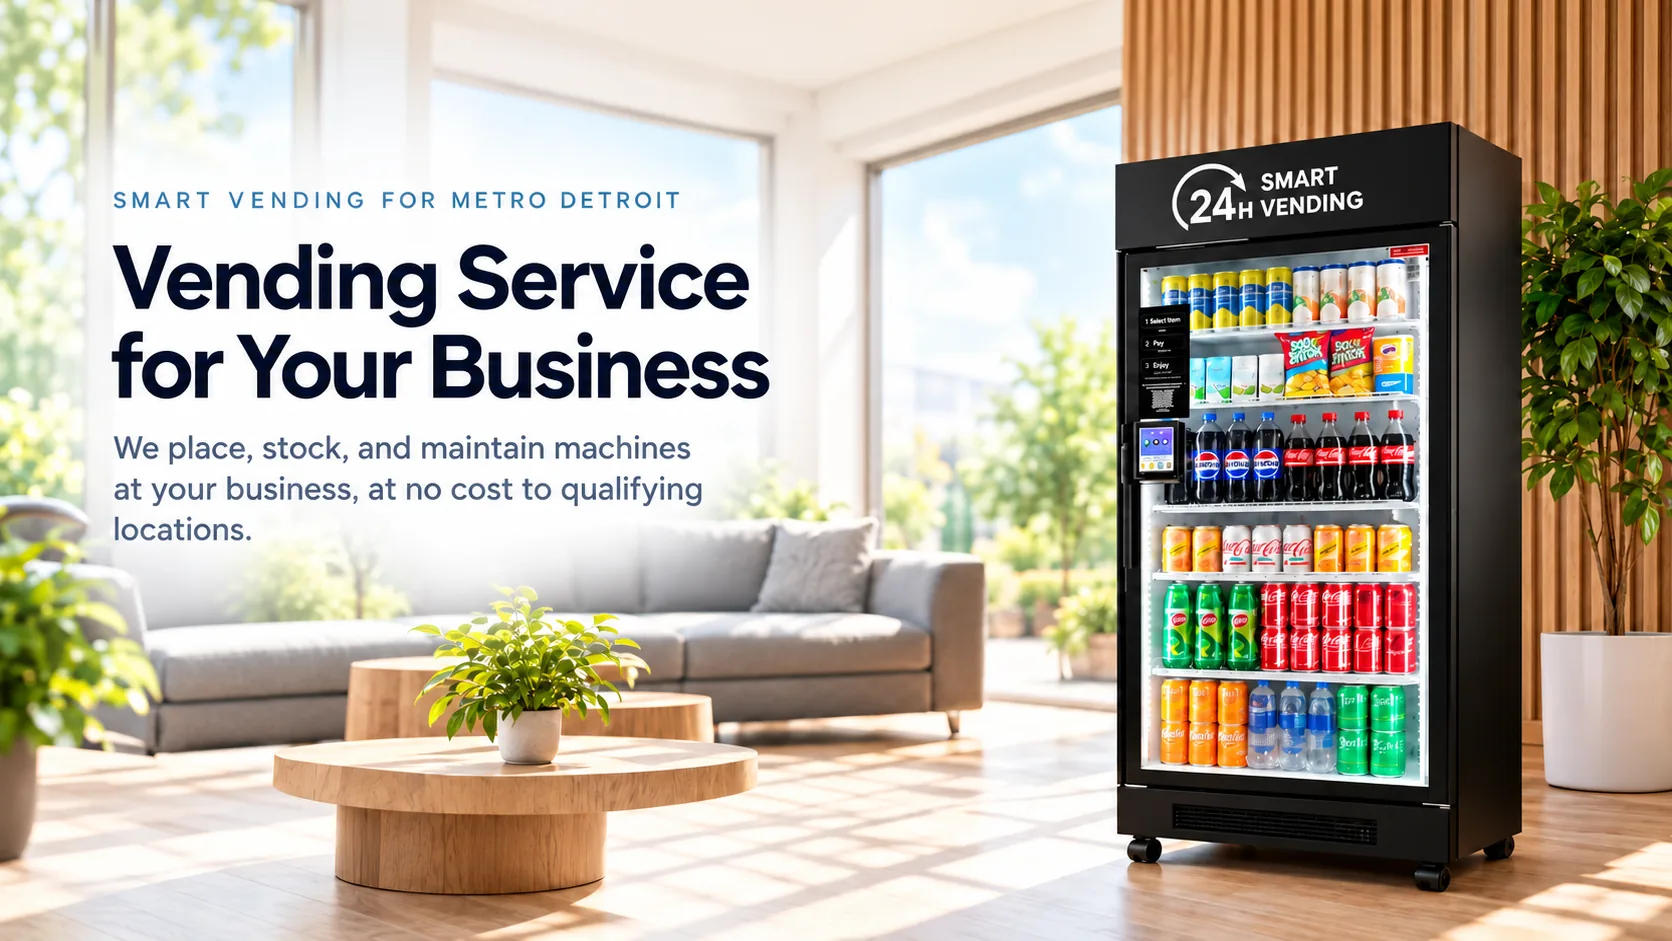
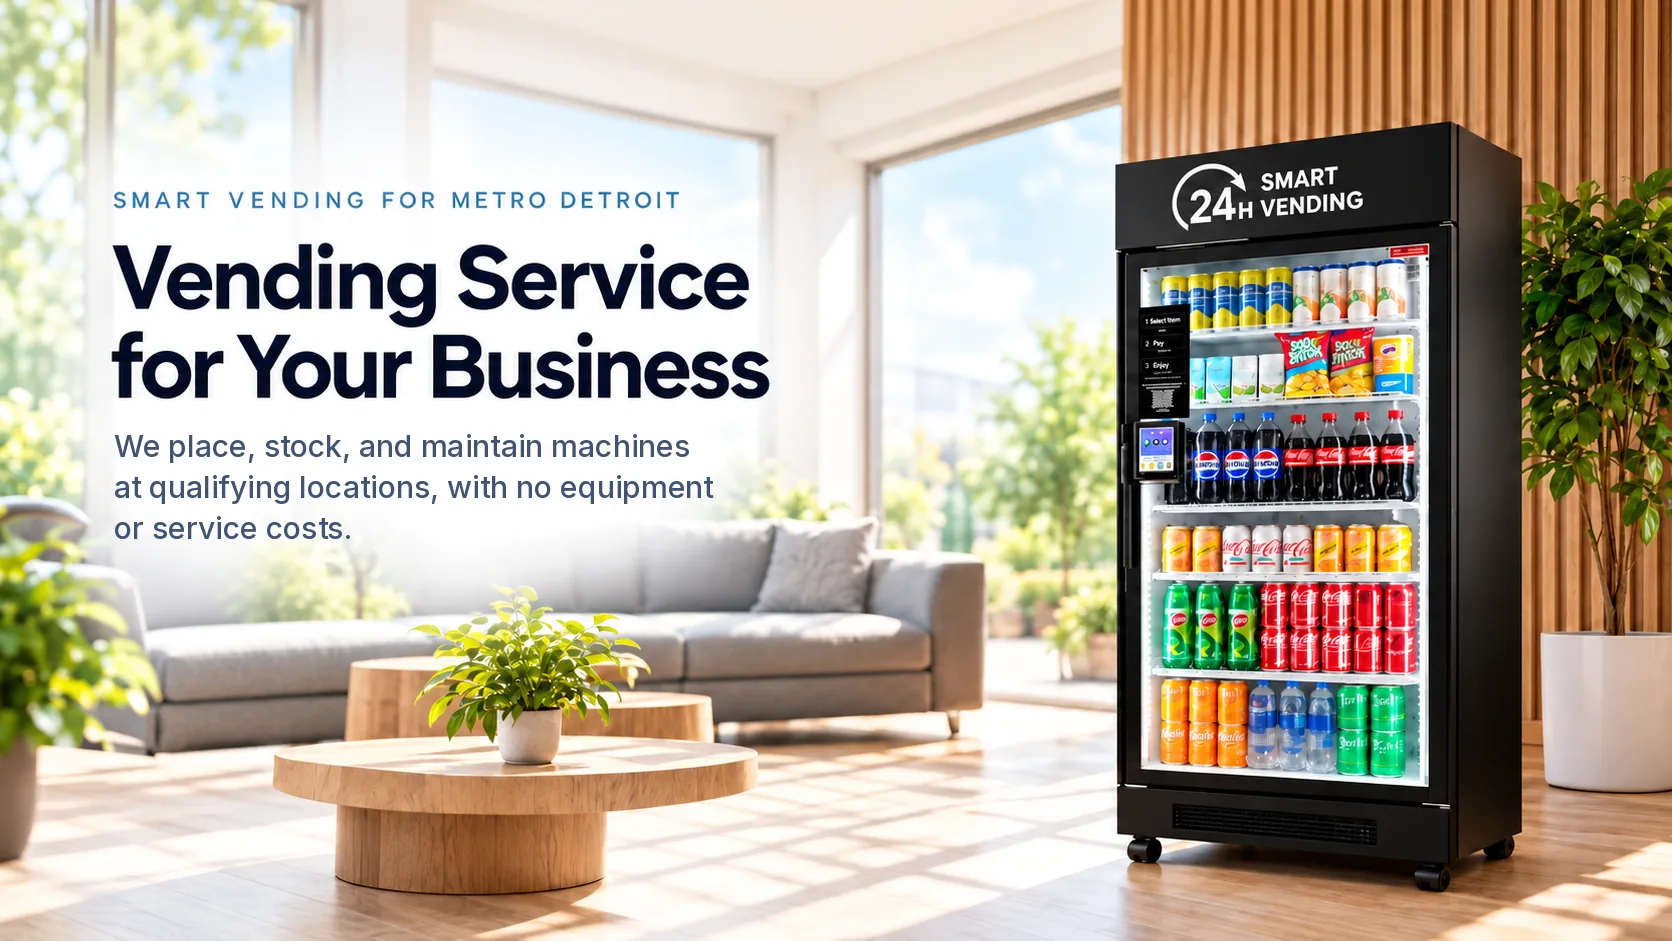
Hero images: replace 'at no cost' wording
Edited the text baked into the desktop and phone hero images (PNG + WebP):
'...at your business, at no cost to qualifying locations.' ->
'...at qualifying locations, with no equipment or service costs.'
Old text removed by inpainting; new text set in Inter Medium to match size,
color and baselines. Image URLs versioned so browsers load the new files.

Claude-Session: https://claude.ai/code/session_01QEYBfoM3rN5WDww9Dqk6D8

Changed region(s): [[0.0622, 0.4623, 0.4354, 0.5855]]

diff --git a/index.html b/index.html
@@ -640,10 +640,10 @@
 <section class="hero-image-only" aria-label="KayBeeVending smart vending service">
   <h1 class="sr-only">Vending Service for Your Business</h1>
   <picture>
-    <source media="(max-width: 700px)" type="image/webp" srcset="assets/kaybee-vending-hero-phone.webp">
-    <source media="(max-width: 700px)" srcset="assets/kaybee-vending-hero-phone.png">
-    <source type="image/webp" srcset="assets/kaybee-vending-hero-desktop.webp">
-    <img src="assets/kaybee-vending-hero-desktop.png" alt="KayBeeVending smart vending service for Metro Detroit businesses, shown with a smart vending cooler in a modern business setting." width="1672" height="941" fetchpriority="high">
+    <source media="(max-width: 700px)" type="image/webp" srcset="assets/kaybee-vending-hero-phone.webp?v=20260927-nocost">
+    <source media="(max-width: 700px)" srcset="assets/kaybee-vending-hero-phone.png?v=20260927-nocost">
+    <source type="image/webp" srcset="assets/kaybee-vending-hero-desktop.webp?v=20260927-nocost">
+    <img src="assets/kaybee-vending-hero-desktop.png?v=20260927-nocost" alt="KayBeeVending smart vending service for Metro Detroit businesses, shown with a smart vending cooler in a modern business setting." width="1672" height="941" fetchpriority="high">
   </picture>
 
   <div class="hero-image-buttons">
